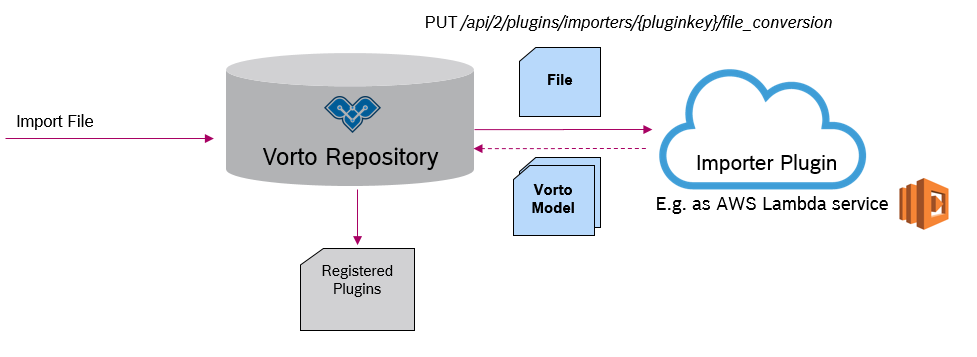
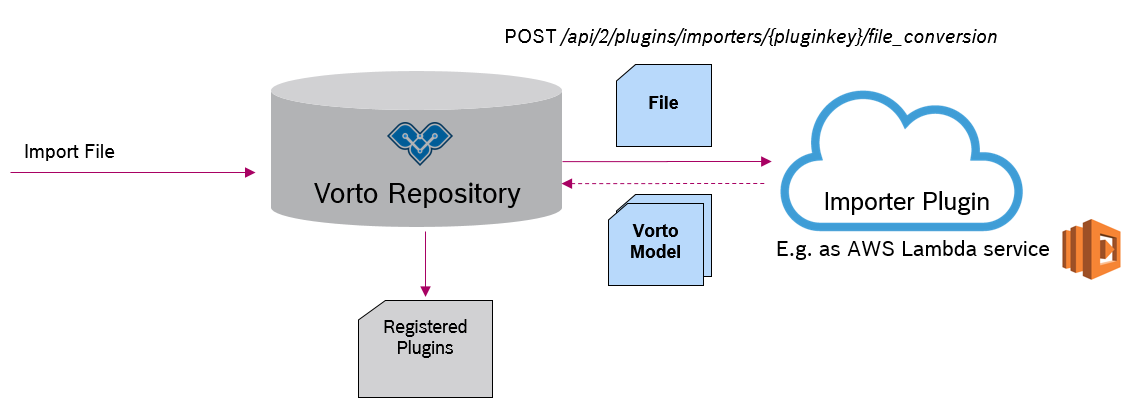
Fixed importer open-api spec yml

Changed region(s): [[0.1842, 0.0308, 0.9826, 0.7087], [0.3071, 0.6471, 0.4299, 0.986], [0.0, 0.3081, 0.1228, 0.4006]]

diff --git a/repository/repository-server-config/src/main/java/org/eclipse/vorto/repository/server/config/config/PluginConfiguration.java b/repository/repository-server-config/src/main/java/org/eclipse/vorto/repository/server/config/config/PluginConfiguration.java
@@ -98,7 +98,7 @@ public class PluginConfiguration {
   
   
   @Bean
-  @Profile("local")
+  @Profile({ "local", "int" })
   public IModelImporter createExampleImporter() {
     ImporterPluginInfo info = new ImporterPluginInfo("lwm2m", "LwM2M",
         "Converts LwM2M descriptions to Vorto", "Vorto Team",
